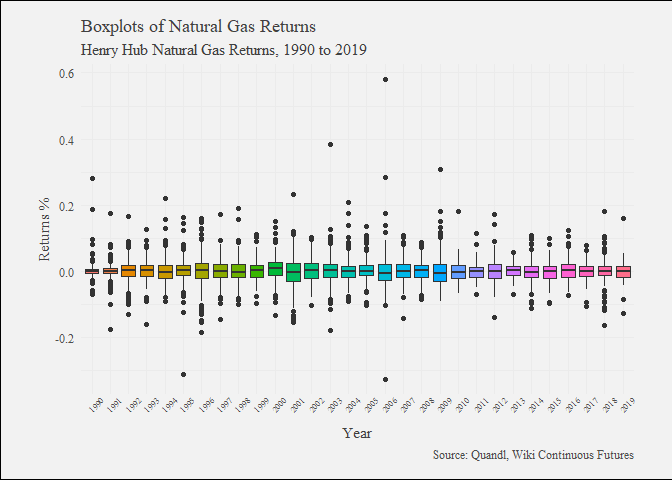
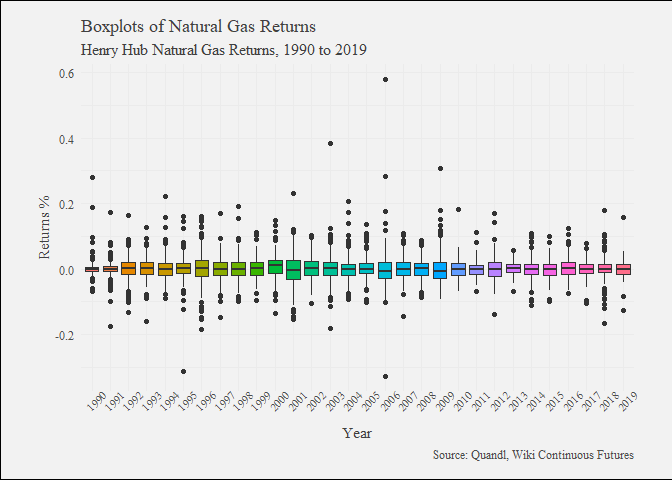
modified visualization scripts

diff --git a/algo-trading-with-natgas-futures.md b/algo-trading-with-natgas-futures.md
@@ -180,61 +180,27 @@ glimpse(natgas_xts)
     ##  NULL
 
 ``` r
-head(natgas_xts)
-```
-
-    ##             Open  High   Low  Last Change Settle Volume
-    ## 1990-04-03 1.580 1.655 1.580 1.635     NA  1.635    240
-    ## 1990-04-04 1.620 1.650 1.599 1.620     NA  1.620     84
-    ## 1990-04-05 1.615 1.635 1.610 1.615     NA  1.615     57
-    ## 1990-04-06 1.615 1.635 1.610 1.625     NA  1.625     62
-    ## 1990-04-09 1.612 1.640 1.612 1.637     NA  1.637     37
-    ## 1990-04-10 1.625 1.630 1.613 1.620     NA  1.620     29
-    ##            Previous Day Open Interest
-    ## 1990-04-03                        110
-    ## 1990-04-04                        127
-    ## 1990-04-05                        112
-    ## 1990-04-06                        136
-    ## 1990-04-09                        145
-    ## 1990-04-10                        150
-
-``` r
-tail(natgas_xts)
-```
-
-    ##             Open  High   Low  Last Change Settle Volume
-    ## 2019-06-24 2.197 2.316 2.195 2.301  0.117  2.303  66938
-    ## 2019-06-25 2.303 2.315 2.255 2.284  0.005  2.308  53866
-    ## 2019-06-26 2.289 2.324 2.265 2.292  0.017  2.291   5791
-    ## 2019-06-27 2.271 2.339 2.265 2.323  0.056  2.324 108269
-    ## 2019-06-28 2.320 2.364 2.300 2.316  0.016  2.308 116137
-    ## 2019-07-01 2.330 2.331 2.217 2.265  0.041  2.267 147490
-    ##            Previous Day Open Interest
-    ## 2019-06-24                      35429
-    ## 2019-06-25                      26732
-    ## 2019-06-26                       4148
-    ## 2019-06-27                     373163
-    ## 2019-06-28                     373211
-    ## 2019-07-01                     366666
-
-``` r
-# Plot the historical data for HH Futures with rectanges identifying spikes
-autoplot(object = natgas_xts$Settle) +
-  labs(
-    x = "Date",
-    y = "Price (USD/MMBtu)",
-    title = "Time Series Plot of Henry Hub Natural Gas Physical Futures", 
-    subtitle = "Henry Hub Natural Gas Prices, 1990 to 2019",
-    caption = "Data source: Quandl Wiki Continuous Futures") +
+# Define a standard theme for each visualization
+theme_report <- function() {
   theme_minimal() +
   theme(
-    text = element_text(family = "serif"),
-    title = element_text(color = "gray25"),
+    text = element_text(family = "serif", color = "gray25"),
     plot.subtitle = element_text(size = 12),
     plot.caption = element_text(color = "gray30"),
     plot.background = element_rect(fill = "gray95"),
     plot.margin = unit(c(5, 10, 5, 10), units = "mm")
   )
+}
+
+# Plot the historical data for HH Futures with rectanges identifying spikes
+autoplot(object = natgas_xts$Settle) +
+  labs(
+    x = "Date",
+    y = "Price (USD/MMBtu)",
+    title = "Time Series Plot of Henry Hub Physical Futures", 
+    subtitle = "Henry Hub Natural Gas Prices, 1990 to 2019",
+    caption = "Data source: Quandl Wiki Continuous Futures") +
+  theme_report()
 ```
 
 ![](algo-trading-with-natgas-futures_files/figure-gfm/unnamed-chunk-4-1.png)<!-- -->
@@ -301,15 +267,7 @@ ggplot(data = natgas_returns, mapping = aes(x = Settle)) +
     title = "Histogram of Henry Hub Natural Gas Returns", 
     subtitle = "Frequency Distribution of Returns, 1990 to 2019",
     caption = "Data source: Quandl, Wiki Continuous Futures") +
-  theme_minimal() +
-  theme(
-    text = element_text(family = "serif"),
-    title = element_text(color = "gray25"),
-    plot.subtitle = element_text(size = 12),
-    plot.caption = element_text(color = "gray30"),
-    plot.background = element_rect(fill = "gray95"),
-    plot.margin = unit(c(5, 10, 5, 10), units = "mm")
-  )
+  theme_report()
 ```
 
     ## Warning: Removed 1 rows containing non-finite values (stat_bin).
@@ -333,16 +291,10 @@ natgas %>%
       title = "Boxplots of Natural Gas Returns", 
       subtitle = "Henry Hub Natural Gas Returns, 1990 to 2019",
       caption = "Source: Quandl, Wiki Continuous Futures") +
-    theme_minimal() +
+    theme_report() +
     theme(
       legend.position = "none",
-      axis.text.x = element_text(angle = 45, size = 7),
-      text = element_text(family = "serif"),
-      title = element_text(color = "gray25"),
-      plot.subtitle = element_text(size = 12),
-      plot.caption = element_text(color = "gray30"),
-      plot.background = element_rect(fill = "gray95"),
-      plot.margin = unit(c(5, 10, 5, 10), units = "mm")
+      axis.text.x = element_text(angle = 45, size = 8),
       )
 ```
 
@@ -370,15 +322,7 @@ natgas_returns %>%
     subtitle = "Distribution of Natural Gas Returns, 1990 to 2019",
     caption = "Data source: Quandl, Wiki Continuous Futures"
   ) +
-  theme_minimal() +
-  theme(
-    text = element_text(family = "serif"),
-    title = element_text(color = "gray25"),
-    plot.subtitle = element_text(size = 10),
-    plot.caption = element_text(color = "gray30"),
-    plot.background = element_rect(fill = "gray95"),
-    plot.margin = unit(c(5, 10, 5, 10), units = "mm")
-  )
+  theme_report()
 ```
 
     ## Warning: Removed 1 rows containing non-finite values (stat_qq).
